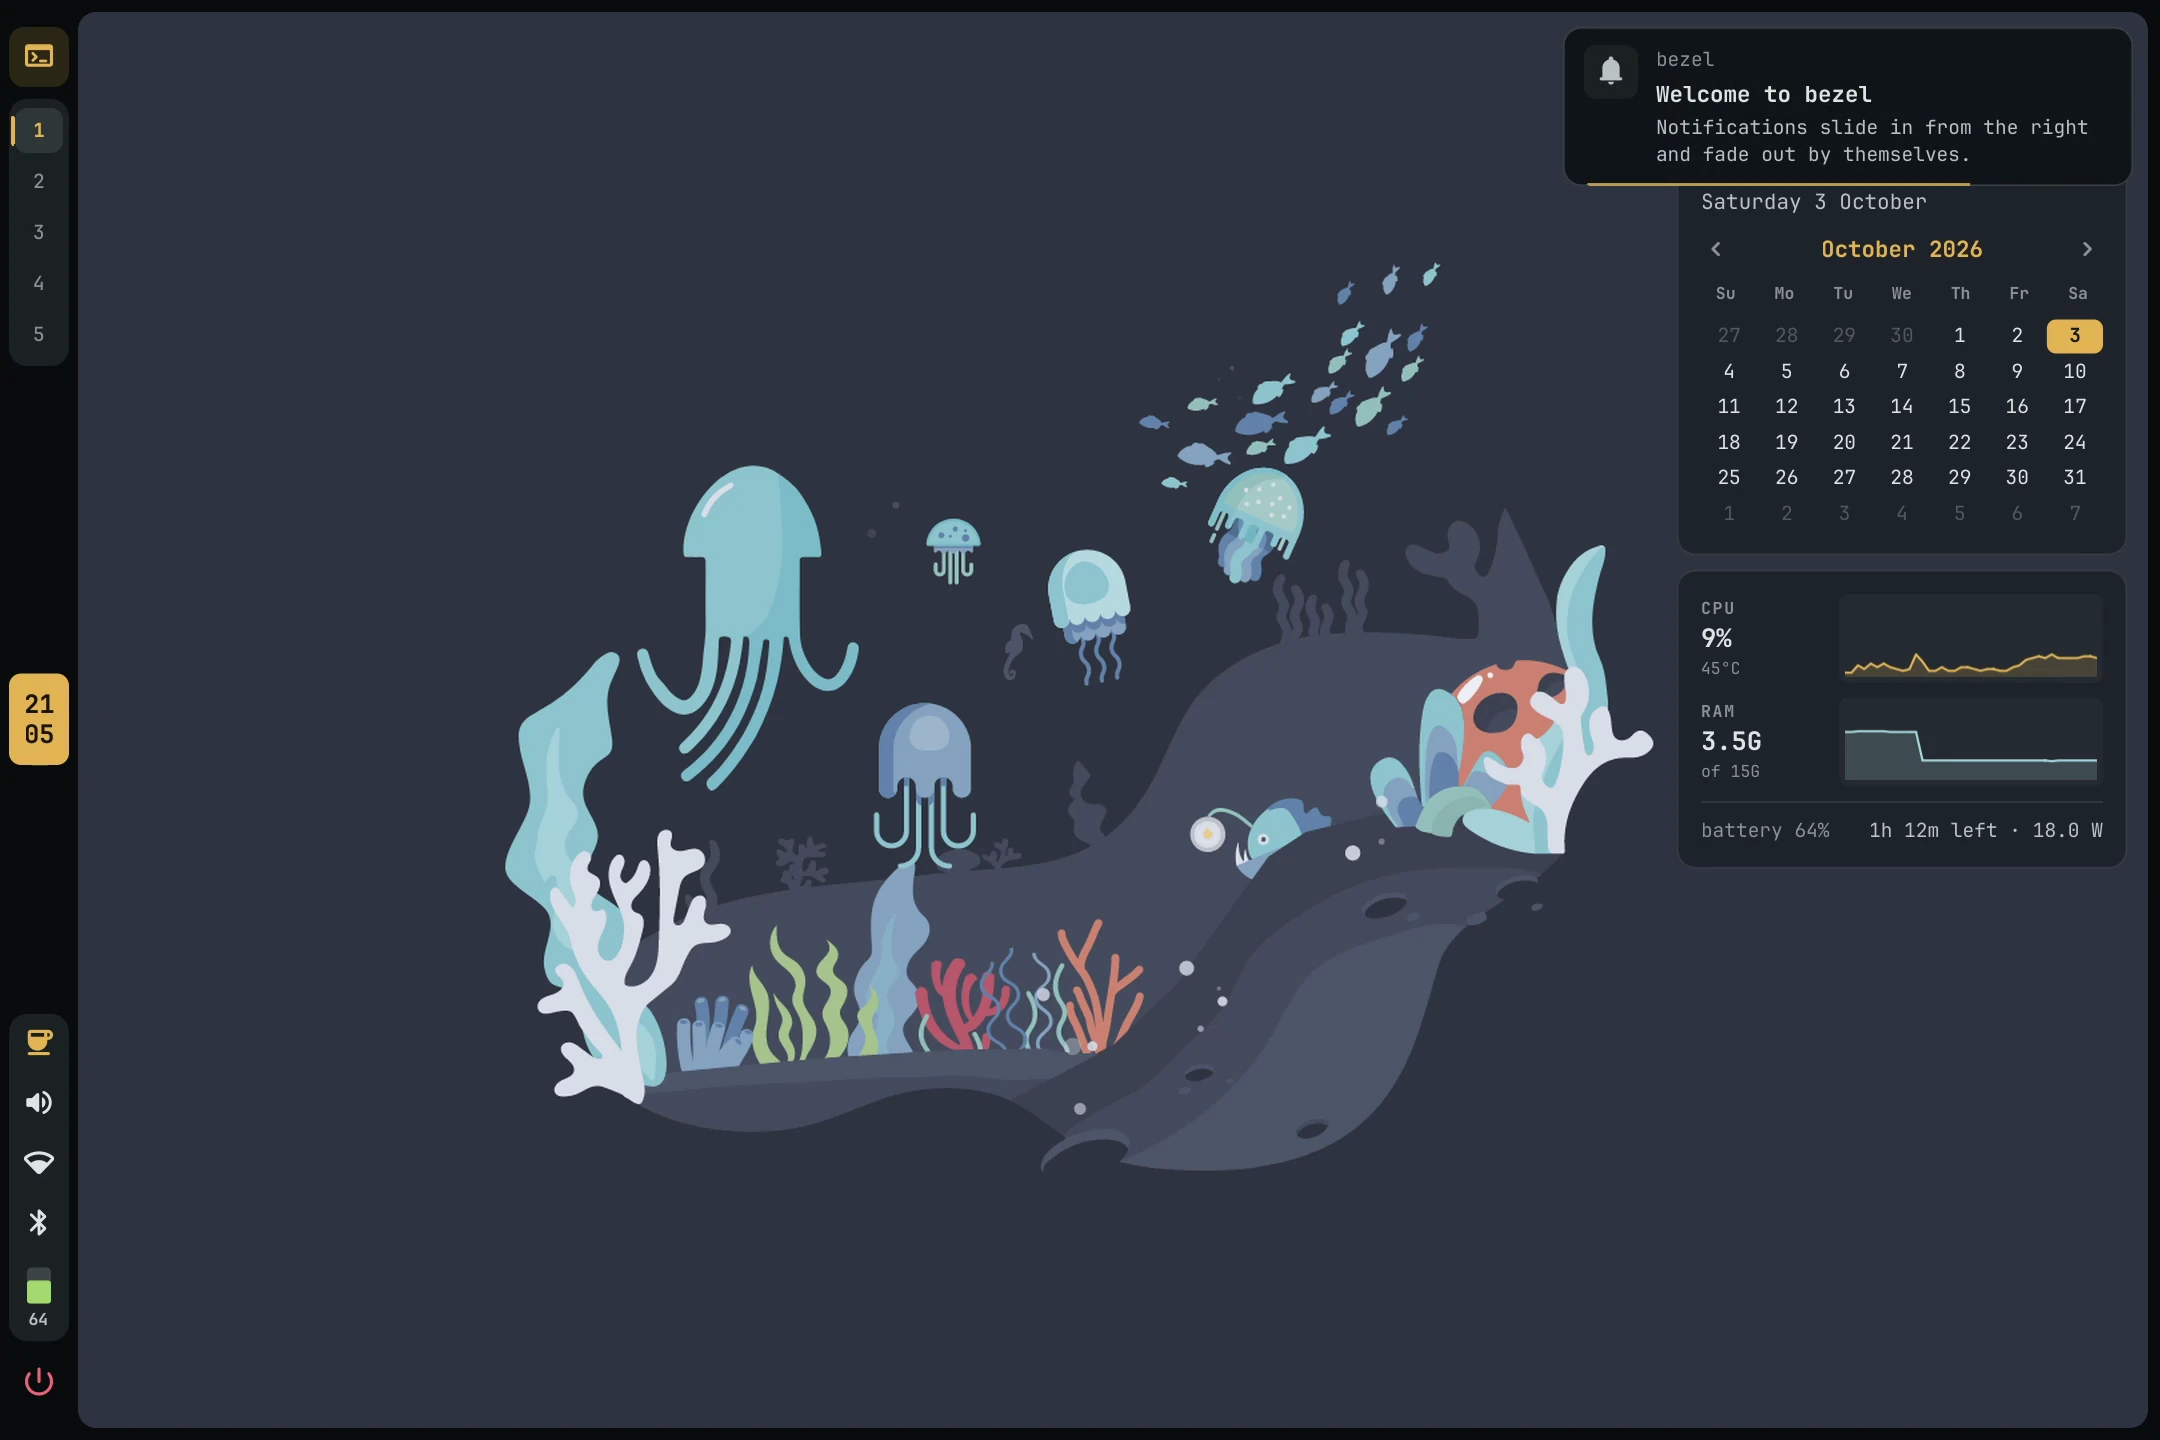
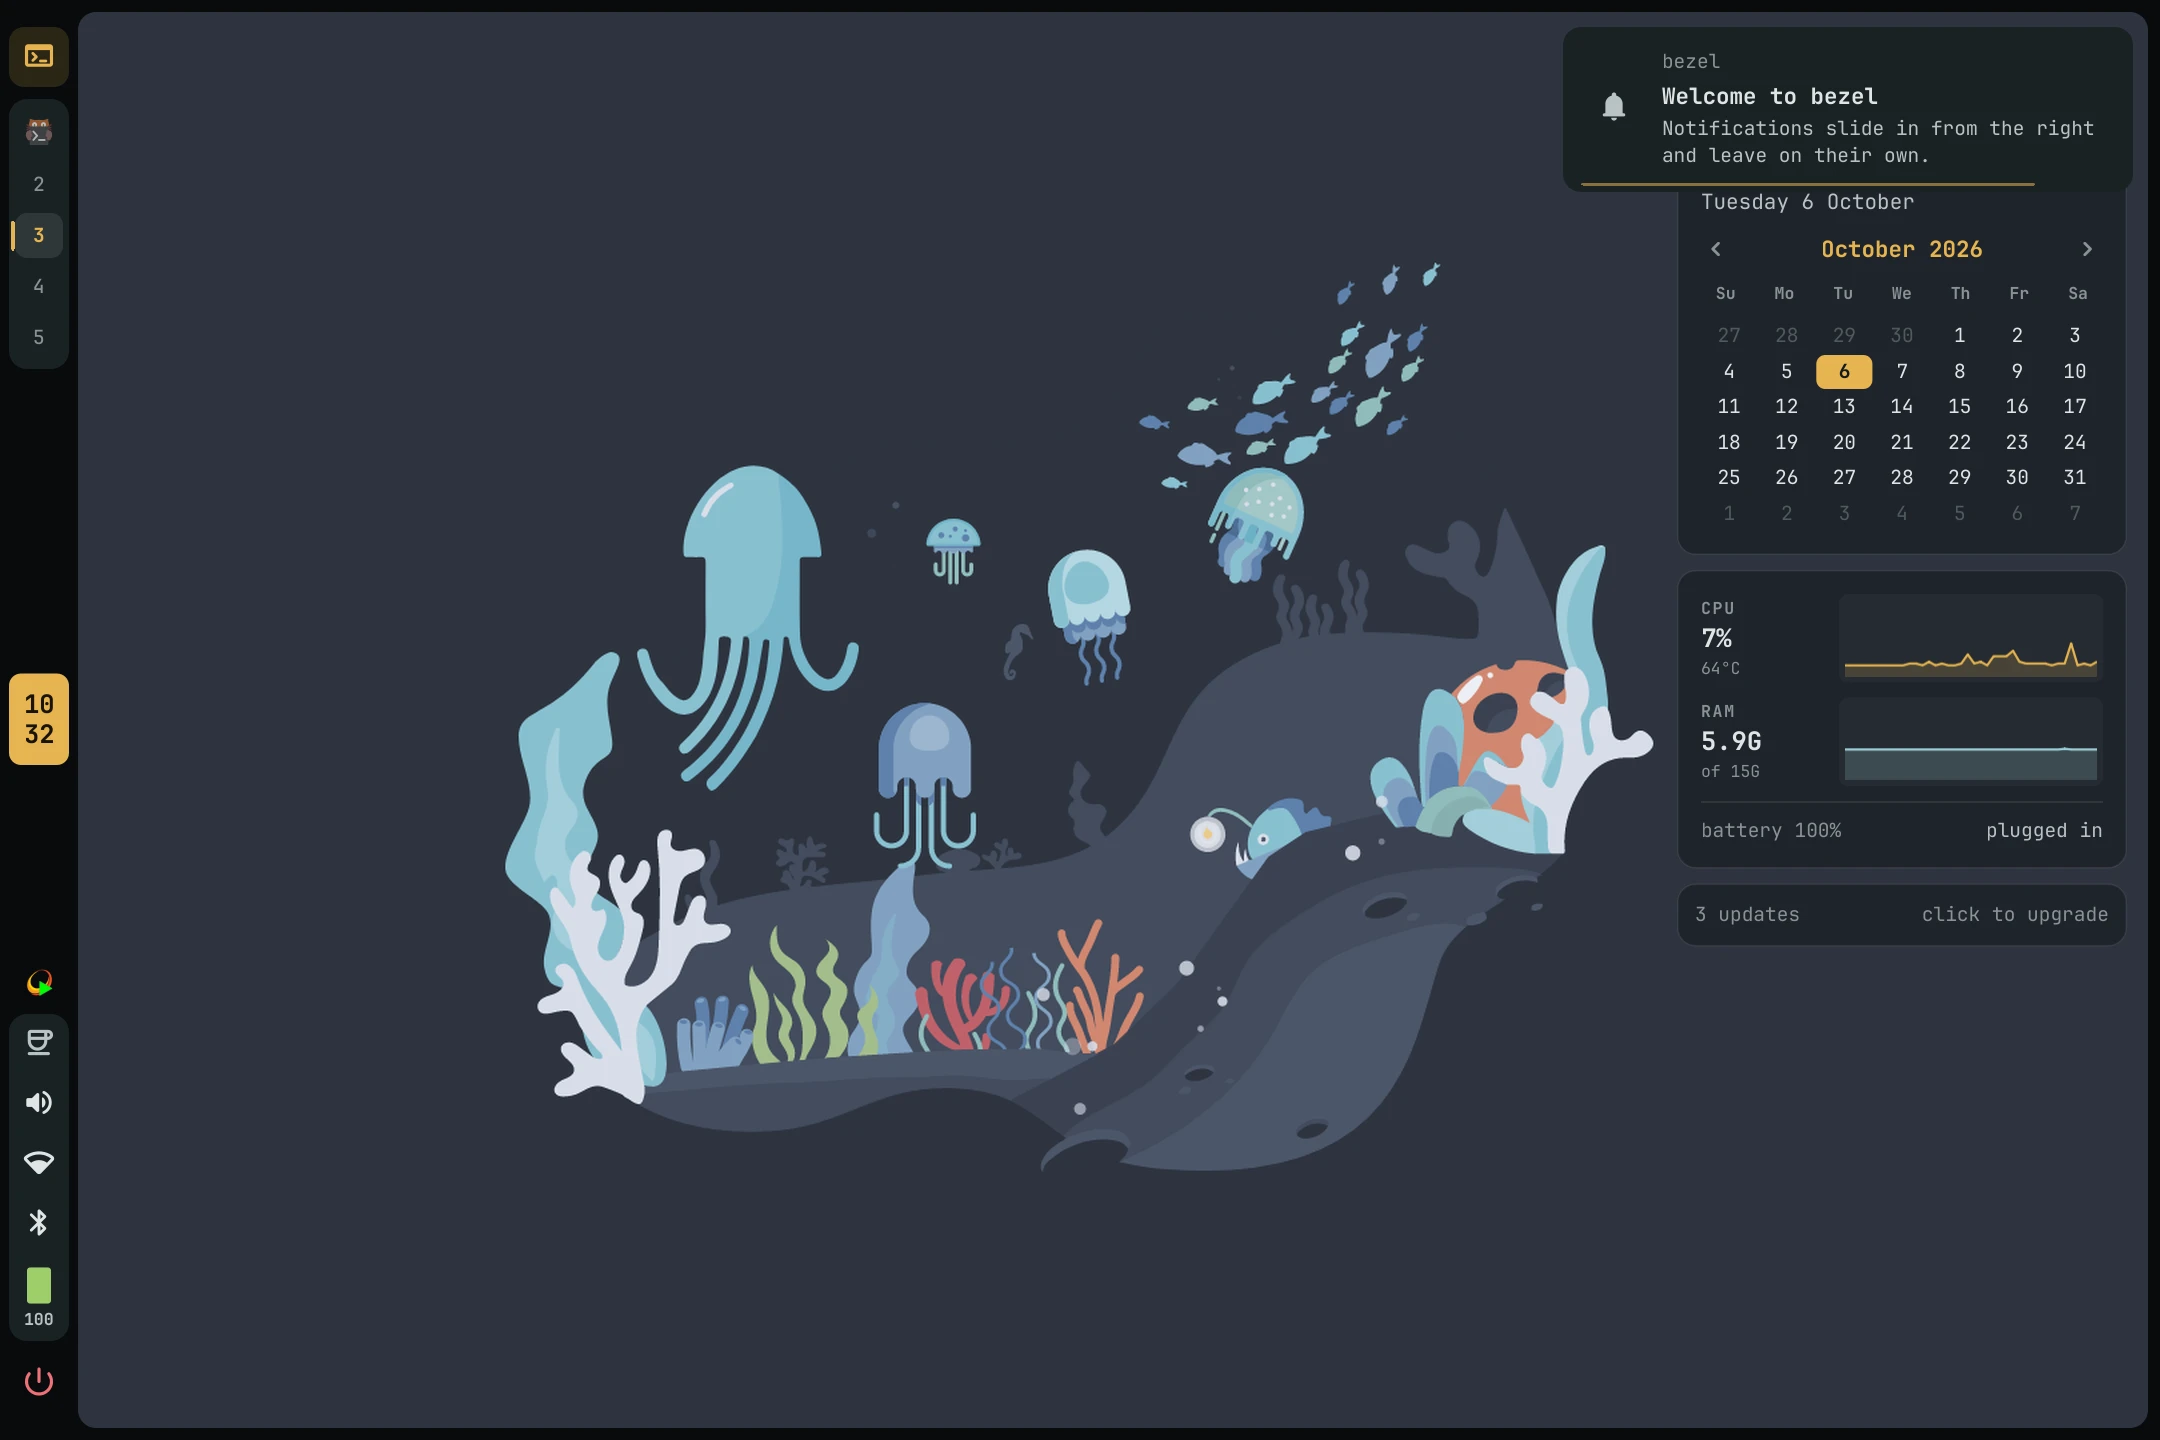
docs: new notification screenshot, no RAM figure in README

diff --git a/README.md b/README.md
@@ -42,7 +42,7 @@ and one amber accent marks what matters. Every dependency comes from the officia
 - **Lock and login screens** — the same design for both (the login screen is optional).
 - **Notifications, OSD, do not disturb, caffeine** — built into the shell, no extra daemons.
 - **One palette everywhere** — kitty, GTK and Qt apps, yazi, btop, lazygit, starship, zathura, imv, Zed and neovim.
-- **Light on resources** — the shell renders in software (~180 MB RAM) and stops refreshing what you can't see.
+- **Light on resources** — the shell renders in software and stops refreshing what you can't see.
 
 ## Requirements
 
